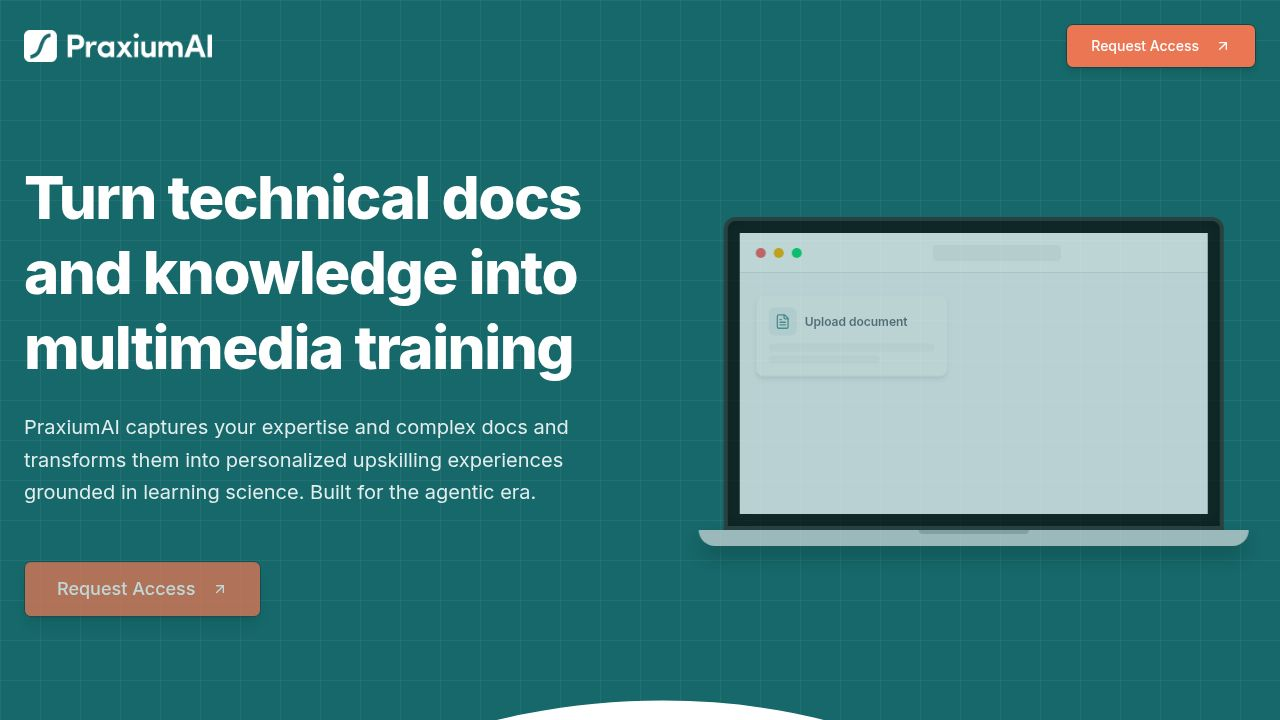
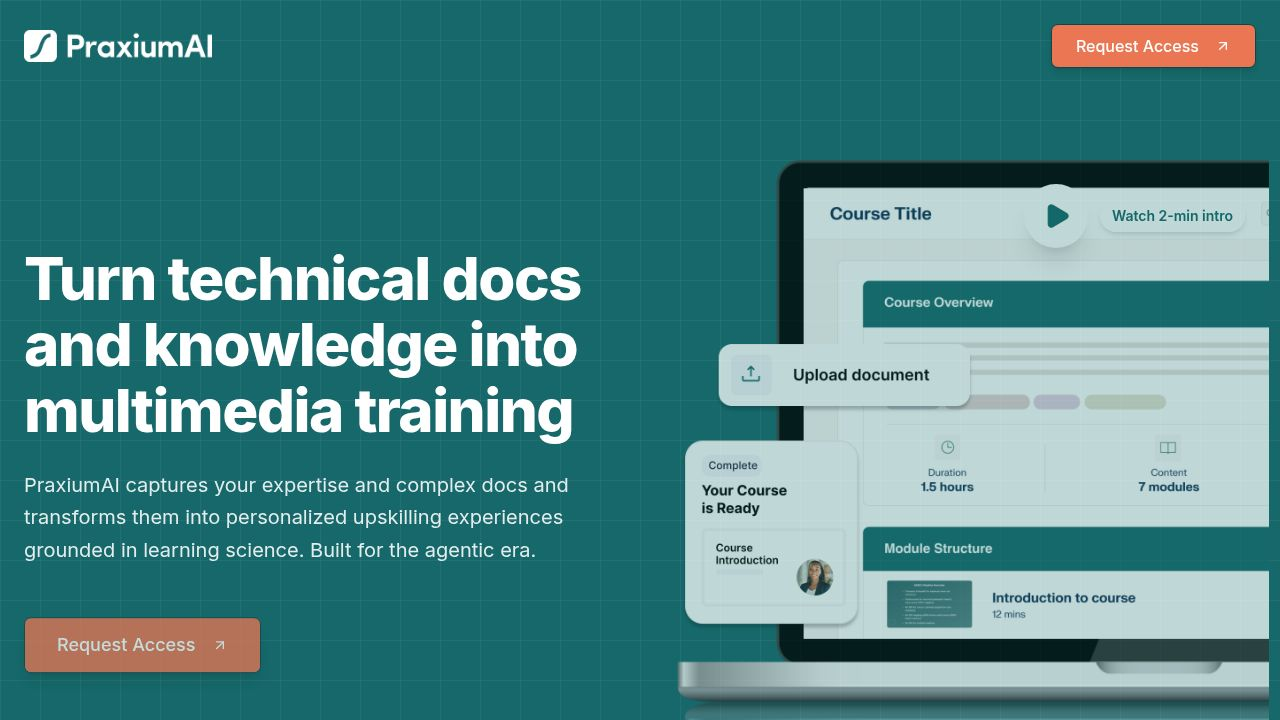
Add video player to website to showcase product introduction
Install Mux player, add a play button to the hero section, and implement a modal for video playback with a custom poster.

Replit-Commit-Author: Agent
Replit-Commit-Session-Id: 7bbcc3b6-d75c-40f8-81db-85297d8bd179
Replit-Commit-Checkpoint-Type: full_checkpoint
Replit-Commit-Event-Id: 992bd03f-8e13-4a2f-8ac2-22106369e6f8
Replit-Commit-Screenshot-Url: https://storage.googleapis.com/screenshot-production-us-central1/654e66c6-882d-41a6-b5a0-30381beb1ee4/7bbcc3b6-d75c-40f8-81db-85297d8bd179/Nh6GJrr
Replit-Helium-Checkpoint-Created: true

diff --git a/artifacts/praxium-site/src/pages/Home.tsx b/artifacts/praxium-site/src/pages/Home.tsx
@@ -1,9 +1,16 @@
-import { useState, useEffect } from "react";
+import { useState, useEffect, lazy, Suspense } from "react";
 import { motion } from "framer-motion";
 import useEmblaCarousel from "embla-carousel-react";
-import { ArrowUpRight, ChevronLeft, ChevronRight, CheckCircle2 } from "lucide-react";
+import { ArrowUpRight, ChevronLeft, ChevronRight, CheckCircle2, Play, X } from "lucide-react";
 
 import { Button } from "@/components/ui/button";
+import { Dialog, DialogContent, DialogTitle, DialogClose } from "@/components/ui/dialog";
+
+const MuxPlayer = lazy(() => import("@mux/mux-player-react"));
+
+const MUX_PLAYBACK_ID = "g4mWtFkEpHWYsO4t004ktdkRFt0001N3TH4OU01lZpRliNk";
+const MUX_POSTER_TIME = 134;
+const MUX_POSTER_URL = `https://image.mux.com/${MUX_PLAYBACK_ID}/thumbnail.jpg?time=${MUX_POSTER_TIME}`;
 
 // Asset imports
 import logoWhite from "@assets/praxium/praxium-ai-logo-white.png";
@@ -39,6 +46,7 @@ const staggerContainer = {
 
 export default function Home() {
   const [isScrolled, setIsScrolled] = useState(false);
+  const [videoOpen, setVideoOpen] = useState(false);
   const [emblaRef, emblaApi] = useEmblaCarousel({ align: 'start', loop: true });
 
   useEffect(() => {
@@ -118,12 +126,33 @@ export default function Home() {
               animate={{ opacity: 1, x: 0 }}
               transition={{ duration: 0.8, delay: 0.3 }}
             >
-              <img
-                src={heroProductImage}
-                alt="PraxiumAI course builder interface preview"
-                className="block w-full max-w-2xl mx-auto lg:mx-0 lg:ml-auto select-none pointer-events-none"
-                draggable={false}
-              />
+              <div className="relative w-full max-w-2xl mx-auto lg:mx-0 lg:ml-auto">
+                <img
+                  src={heroProductImage}
+                  alt="PraxiumAI course builder interface preview"
+                  className="block w-full select-none pointer-events-none"
+                  draggable={false}
+                />
+
+                {/* Play button overlay */}
+                <button
+                  type="button"
+                  onClick={() => setVideoOpen(true)}
+                  aria-label="Play product introduction video"
+                  className="group absolute top-3 right-3 sm:top-5 sm:right-5 lg:top-6 lg:right-6 flex items-center gap-3 focus:outline-none"
+                  data-testid="button-play-intro-video"
+                >
+                  <span className="relative flex items-center justify-center">
+                    <span className="absolute inline-flex h-full w-full rounded-full bg-white/40 animate-ping" />
+                    <span className="relative flex items-center justify-center h-12 w-12 sm:h-14 sm:w-14 lg:h-16 lg:w-16 rounded-full bg-white shadow-xl transition-transform group-hover:scale-110 group-focus-visible:scale-110 group-focus-visible:ring-4 group-focus-visible:ring-white/70">
+                      <Play className="h-5 w-5 sm:h-6 sm:w-6 lg:h-7 lg:w-7 text-primary fill-primary ml-0.5" />
+                    </span>
+                  </span>
+                  <span className="hidden sm:inline-flex items-center rounded-full bg-white/95 px-3 py-1.5 text-xs lg:text-sm font-semibold text-primary shadow-md transition-transform group-hover:-translate-y-0.5">
+                    Watch 2-min intro
+                  </span>
+                </button>
+              </div>
             </motion.div>
           </div>
         </div>
@@ -495,6 +524,42 @@ export default function Home() {
           </div>
         </div>
       </footer>
+
+      {/* Product Intro Video Modal */}
+      <Dialog open={videoOpen} onOpenChange={setVideoOpen}>
+        <DialogContent
+          className="max-w-4xl w-[95vw] p-0 bg-black border-0 overflow-hidden rounded-xl shadow-2xl [&>button]:hidden"
+          data-testid="dialog-intro-video"
+        >
+          <DialogTitle className="sr-only">PraxiumAI product introduction</DialogTitle>
+          <DialogClose
+            className="absolute right-3 top-3 z-50 rounded-full bg-black/60 hover:bg-black/80 text-white p-2 transition-colors focus:outline-none focus-visible:ring-2 focus-visible:ring-white/70"
+            aria-label="Close video"
+            data-testid="button-close-video"
+          >
+            <X className="h-5 w-5" />
+          </DialogClose>
+          <div className="relative w-full aspect-video bg-black">
+            {videoOpen && (
+              <Suspense fallback={
+                <div className="absolute inset-0 flex items-center justify-center text-white/70 text-sm">
+                  Loading video…
+                </div>
+              }>
+                <MuxPlayer
+                  playbackId={MUX_PLAYBACK_ID}
+                  poster={MUX_POSTER_URL}
+                  metadata={{ video_title: "PraxiumAI product introduction" }}
+                  accentColor="#166A6C"
+                  streamType="on-demand"
+                  autoPlay
+                  style={{ width: "100%", height: "100%", aspectRatio: "16 / 9", "--media-object-fit": "contain" } as any}
+                />
+              </Suspense>
+            )}
+          </div>
+        </DialogContent>
+      </Dialog>
     </div>
   );
 }
